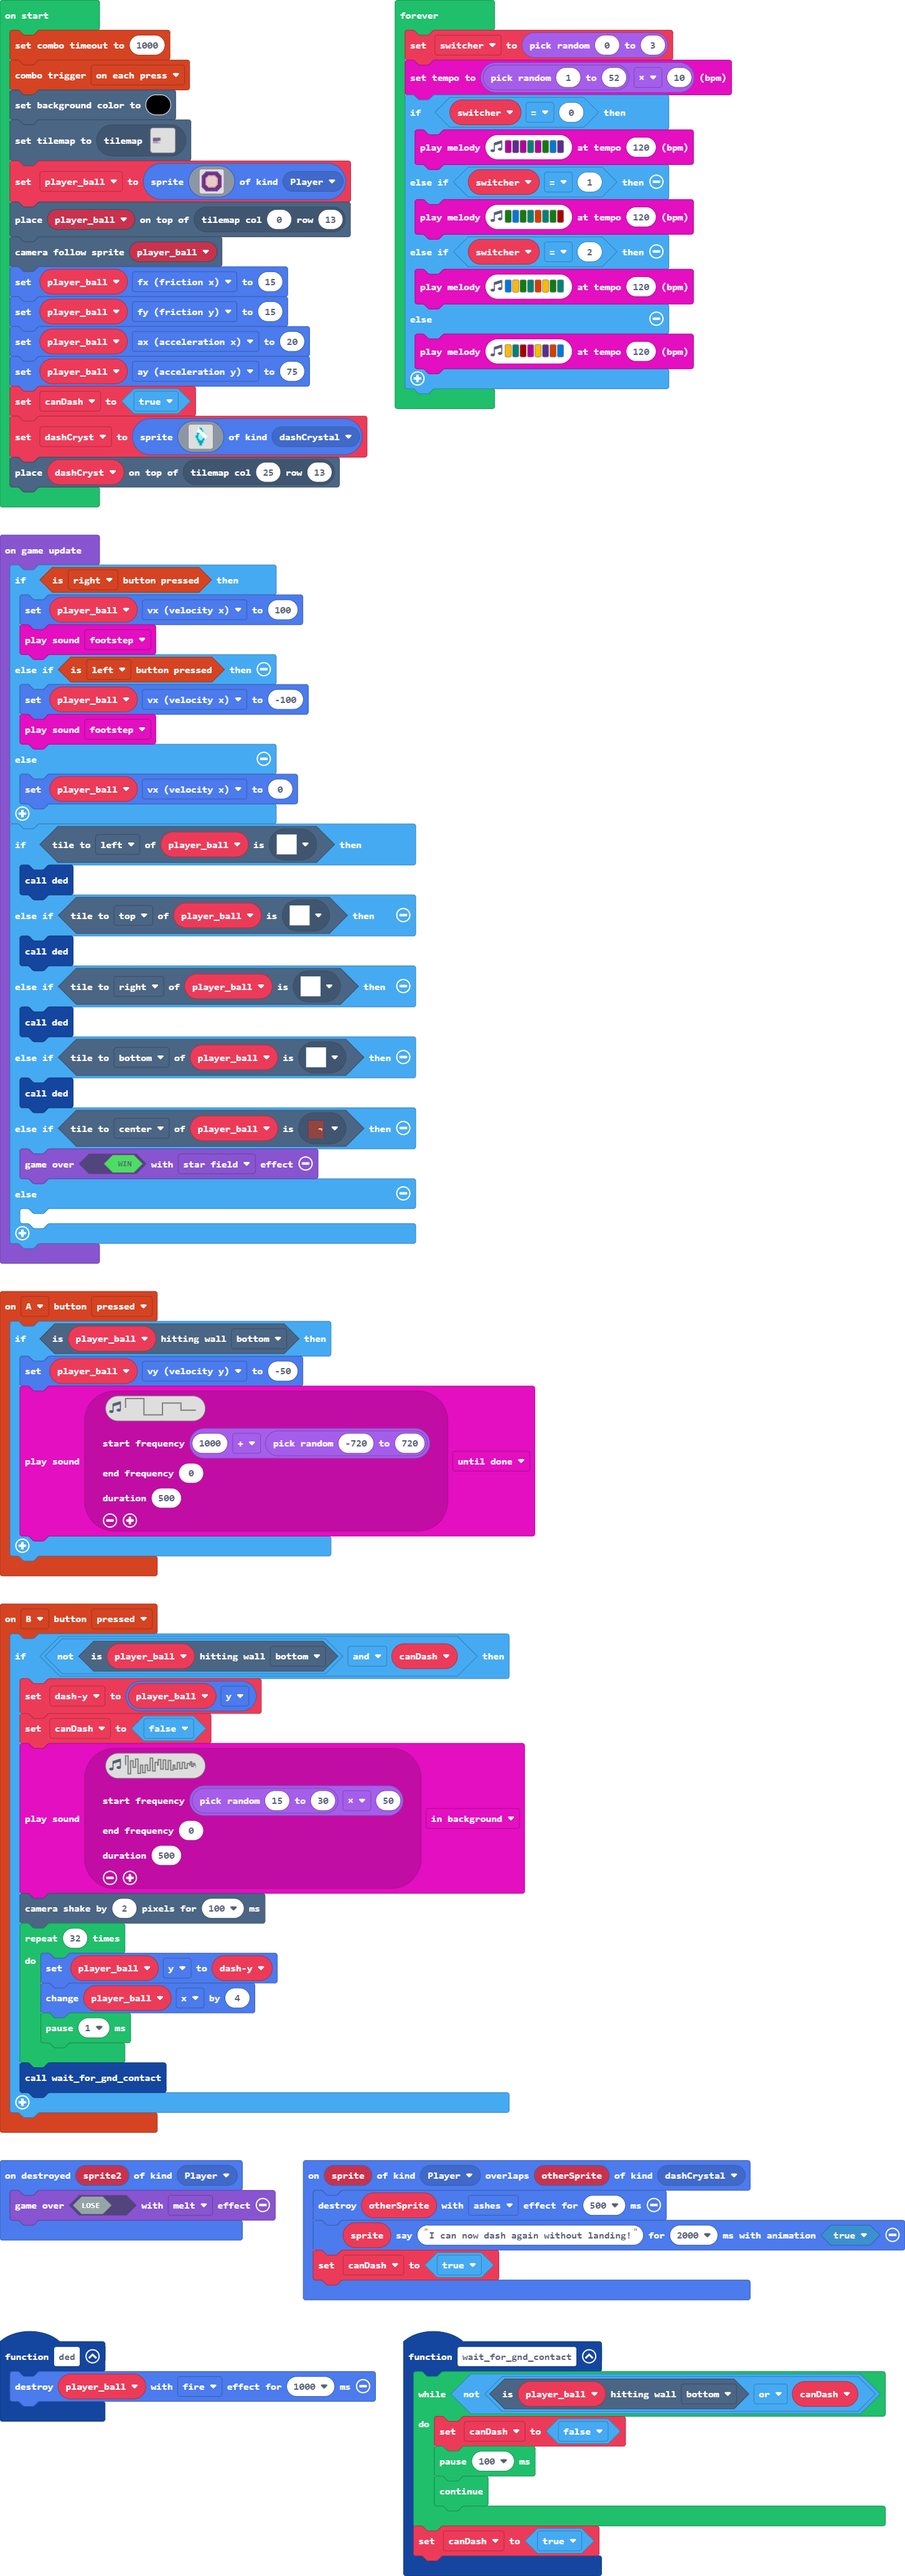
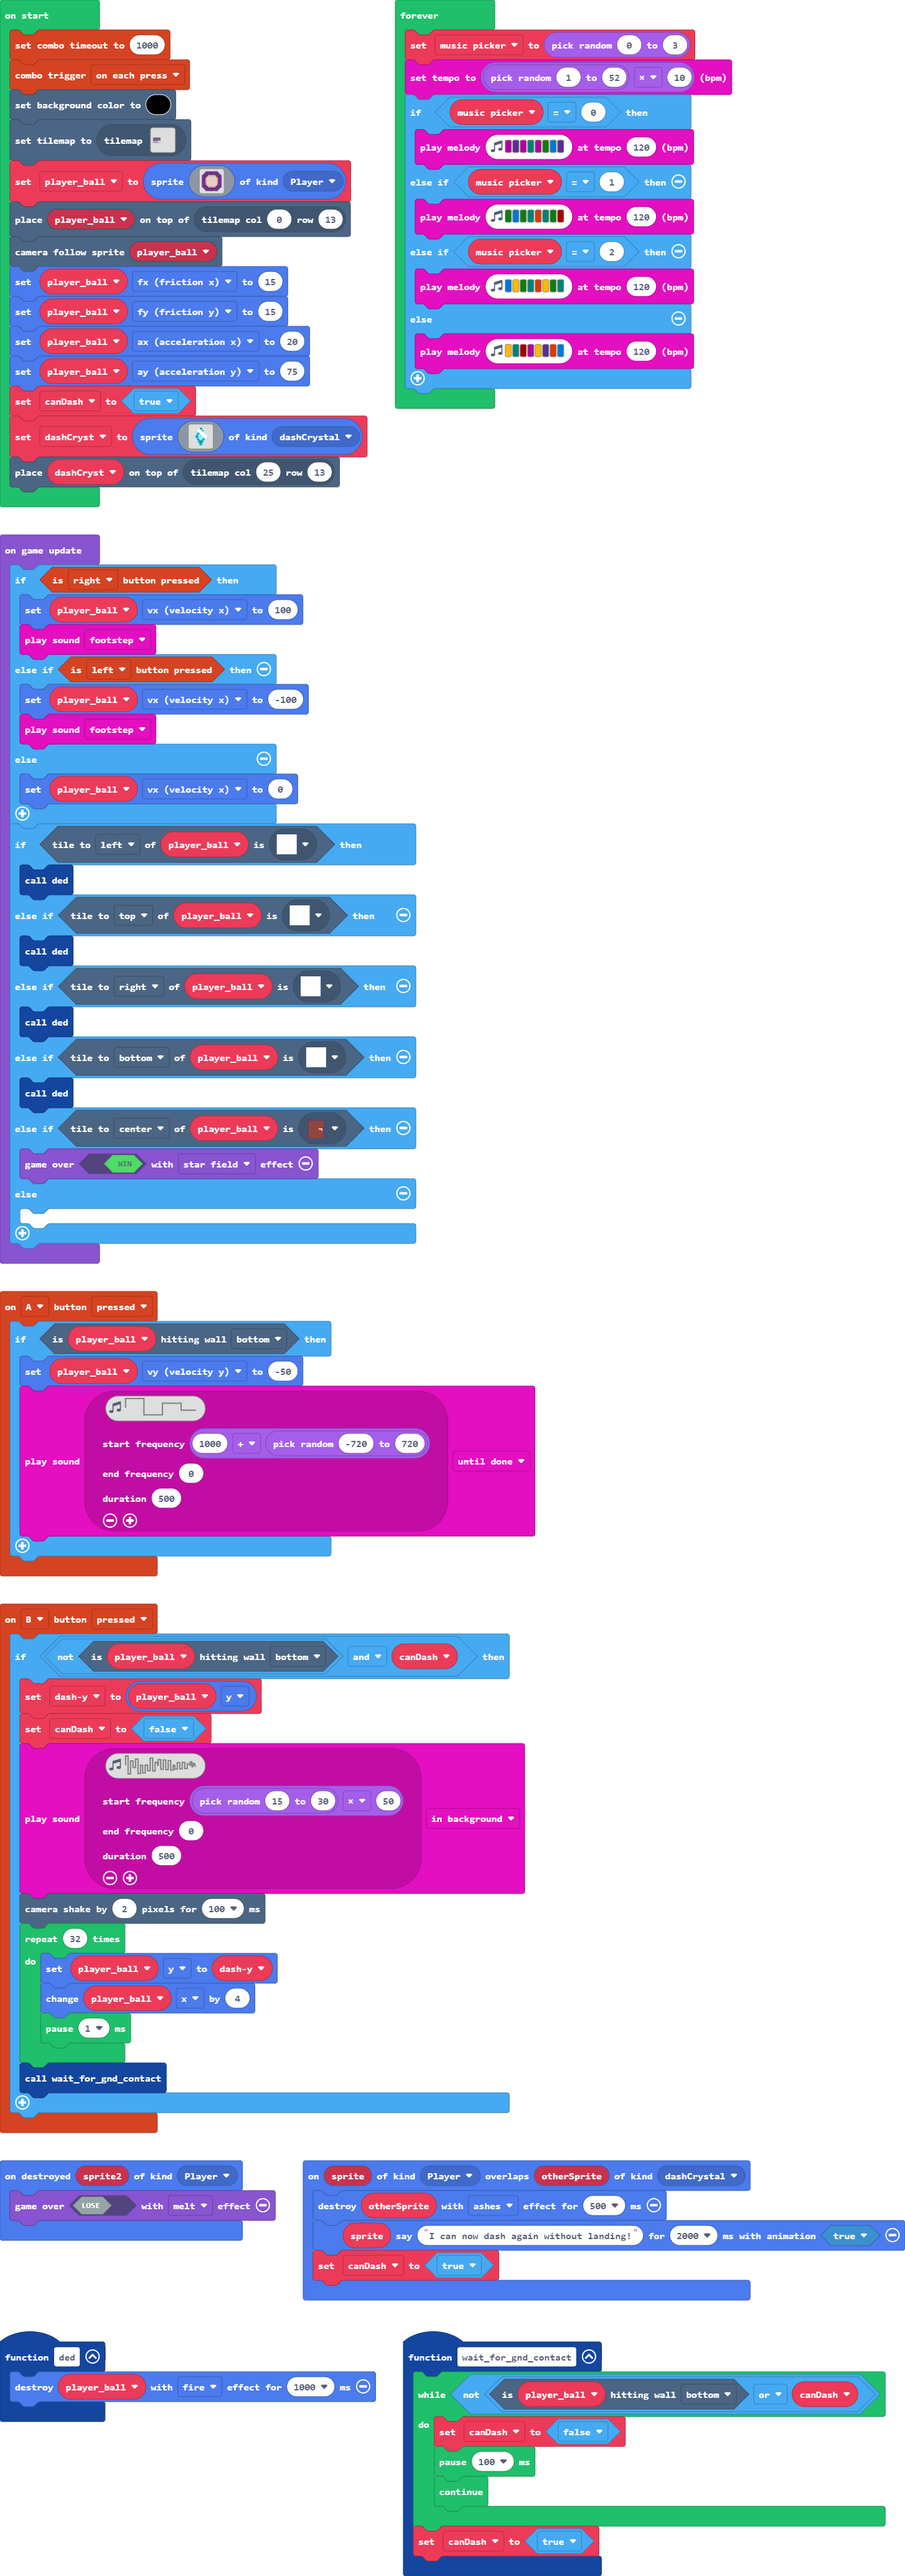
Music picker var renamed

diff --git a/main.ts b/main.ts
@@ -58,7 +58,7 @@ sprites.onOverlap(SpriteKind.Player, SpriteKind.dashCrystal, function (sprite, o
 function ded () {
     player_ball.destroy(effects.fire, 1000)
 }
-let switcher = 0
+let music_picker = 0
 let dashy = 0
 let canDash = false
 let player_ball: Sprite = null
@@ -101,13 +101,13 @@ game.onUpdate(function () {
     }
 })
 forever(function () {
-    switcher = randint(0, 3)
+    music_picker = randint(0, 3)
     music.setTempo(randint(1, 52) * 10)
-    if (switcher == 0) {
+    if (music_picker == 0) {
         music.playMelody("C D C F C G E D ", 120)
-    } else if (switcher == 1) {
+    } else if (music_picker == 1) {
         music.playMelody("G E G F B F G C5 ", 120)
-    } else if (switcher == 2) {
+    } else if (music_picker == 2) {
         music.playMelody("E A G F B A G F ", 120)
     } else {
         music.playMelody("A F C5 C A D B E ", 120)
